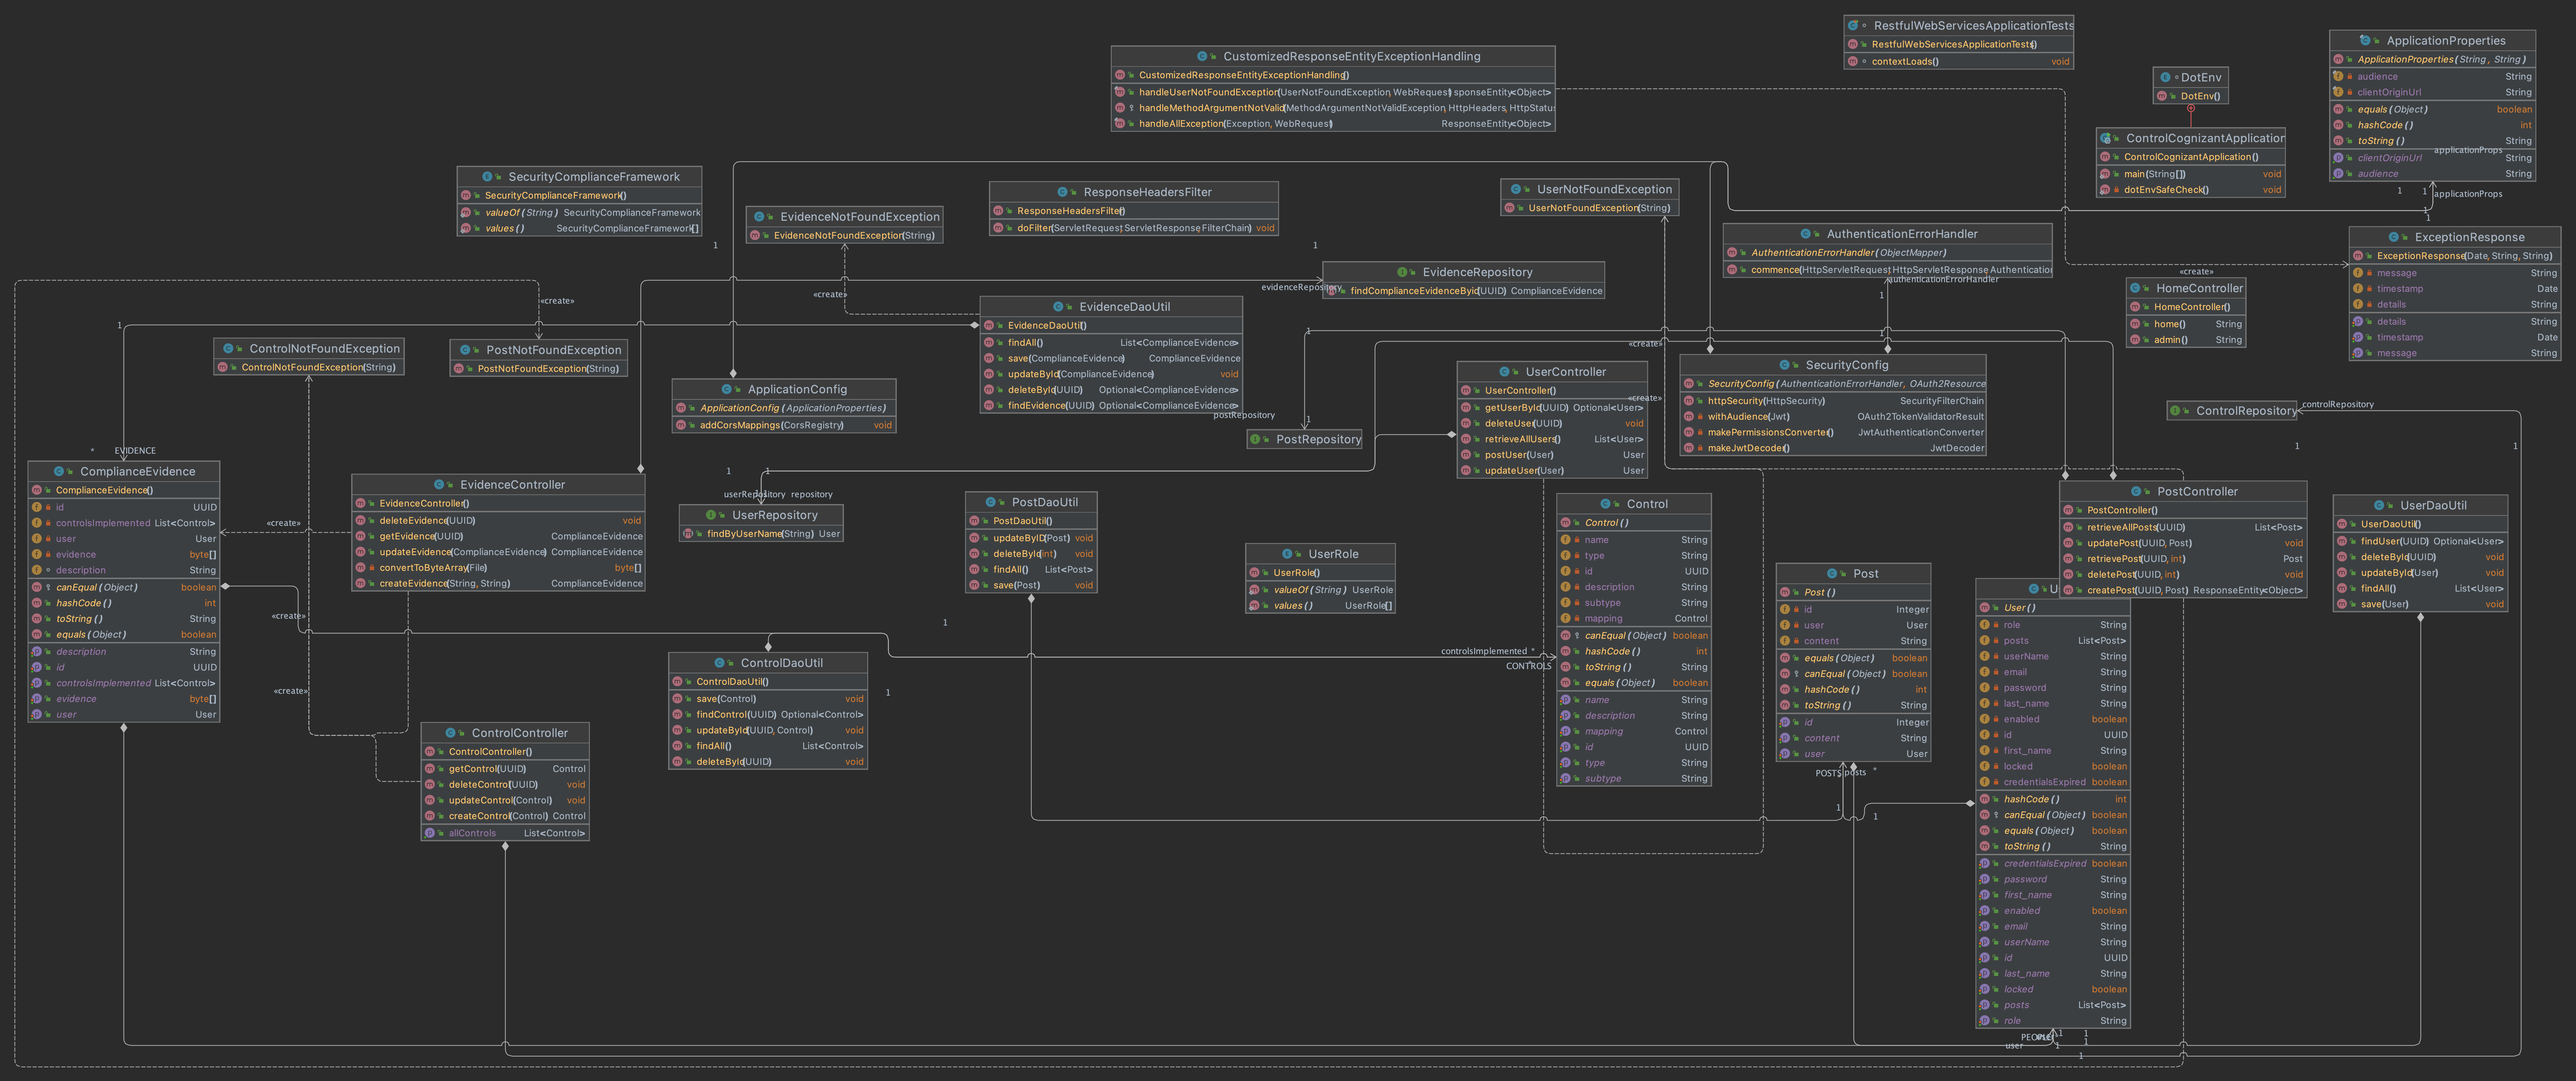
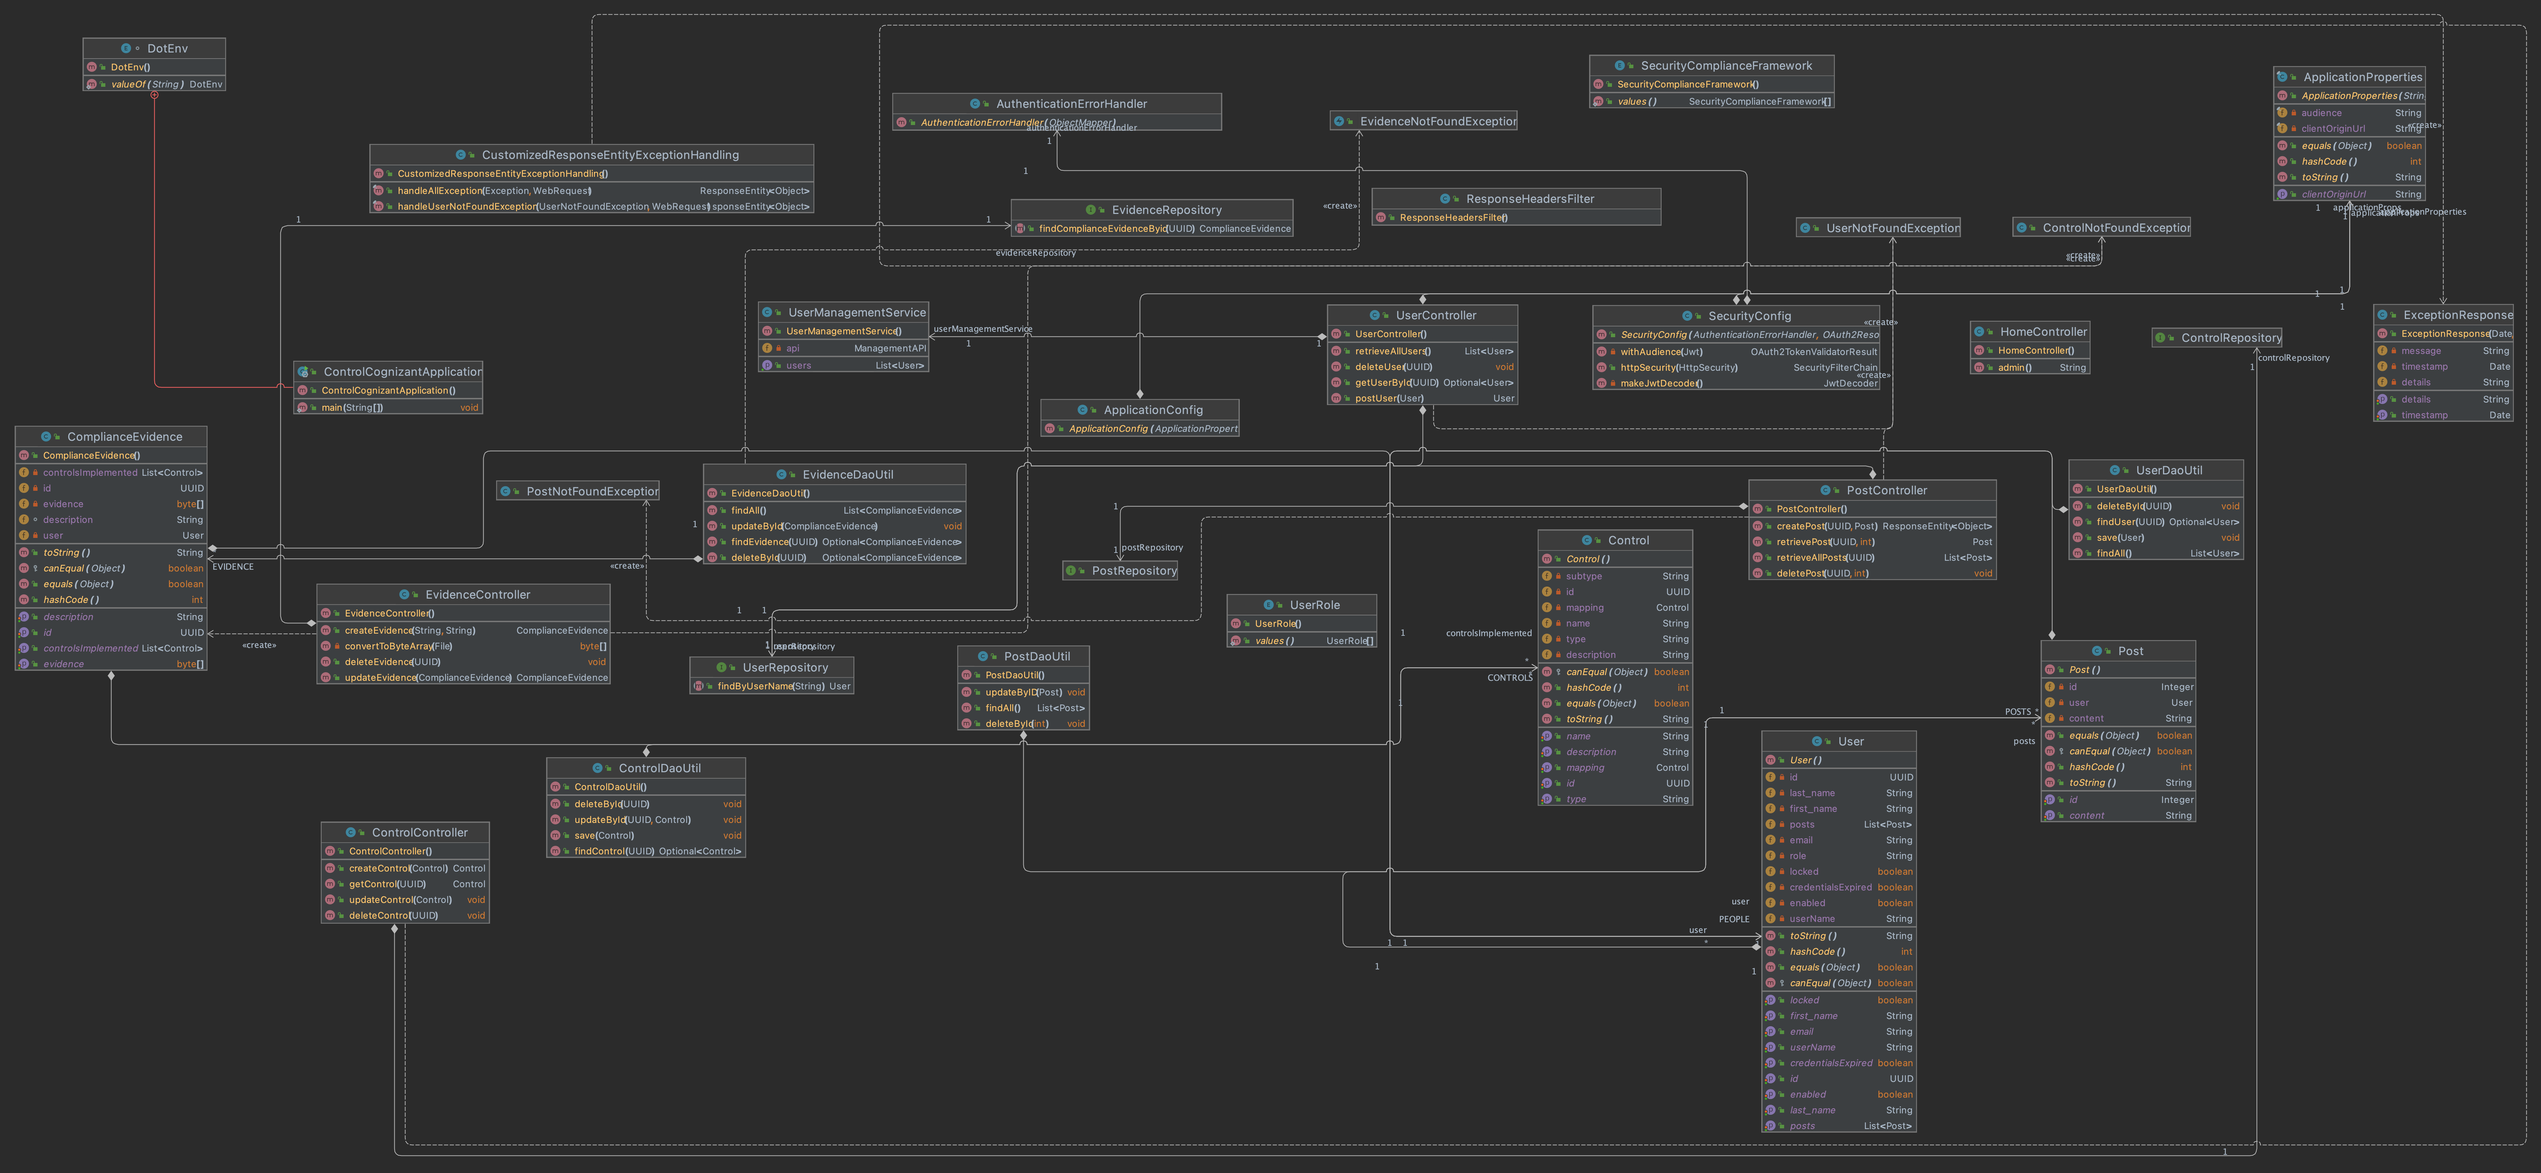
Add initial implementation of updating user data stored with auth0

diff --git a/Rest_Service/src/main/java/edu/BellevueCollege/NestedCatjam/ControlCognizant/Controllers/UserController.java b/Rest_Service/src/main/java/edu/BellevueCollege/NestedCatjam/ControlCognizant/Controllers/UserController.java
@@ -85,16 +85,8 @@ public class UserController {
         return null;
     }
     @PutMapping("/users/{id}")
-    public User updateUser(@RequestBody User User) {
-        try {
-            for (User user : repository.findAll()) {
-                if (user.getId().equals(User.getId())) {
-                    return repository.save(User);
-                }
-            } throw new UserNotFoundException("User with id " + User.getId() + " not found");
-        } catch (Exception e) {
-            e.printStackTrace();
-        }
-        return null;
+    public void updateUser(@RequestBody com.auth0.json.mgmt.users.User user) throws Auth0Exception {
+
+        userManagementService.update(user.getId(), user);
     }
 }

diff --git a/Rest_Service/src/main/java/edu/BellevueCollege/NestedCatjam/ControlCognizant/services/UserManagementService.java b/Rest_Service/src/main/java/edu/BellevueCollege/NestedCatjam/ControlCognizant/services/UserManagementService.java
@@ -60,4 +60,7 @@ public class UserManagementService {
         return getApi().users().list(new UserFilter()).execute().getItems();
     }
 
+    public void update(String userId, User user) throws Auth0Exception {
+        getApi().users().update(userId, user);
+    }
 }
